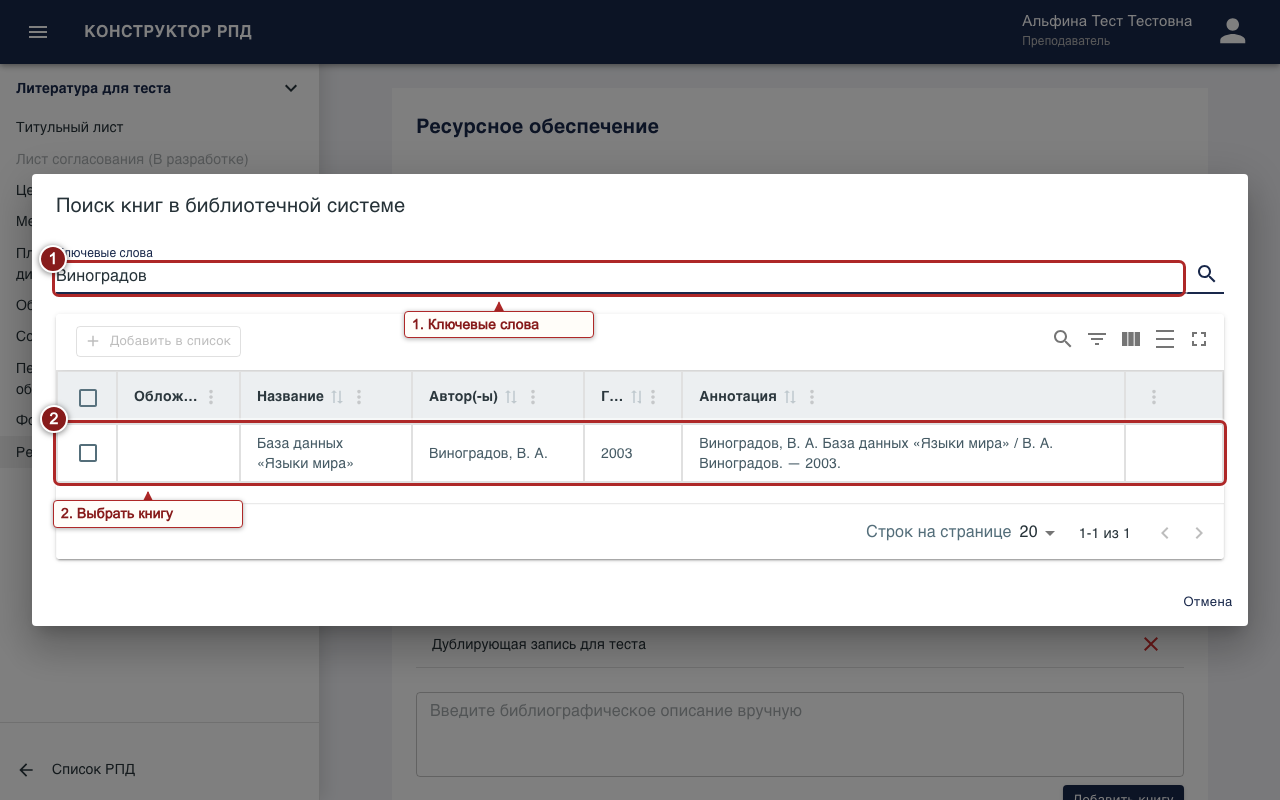
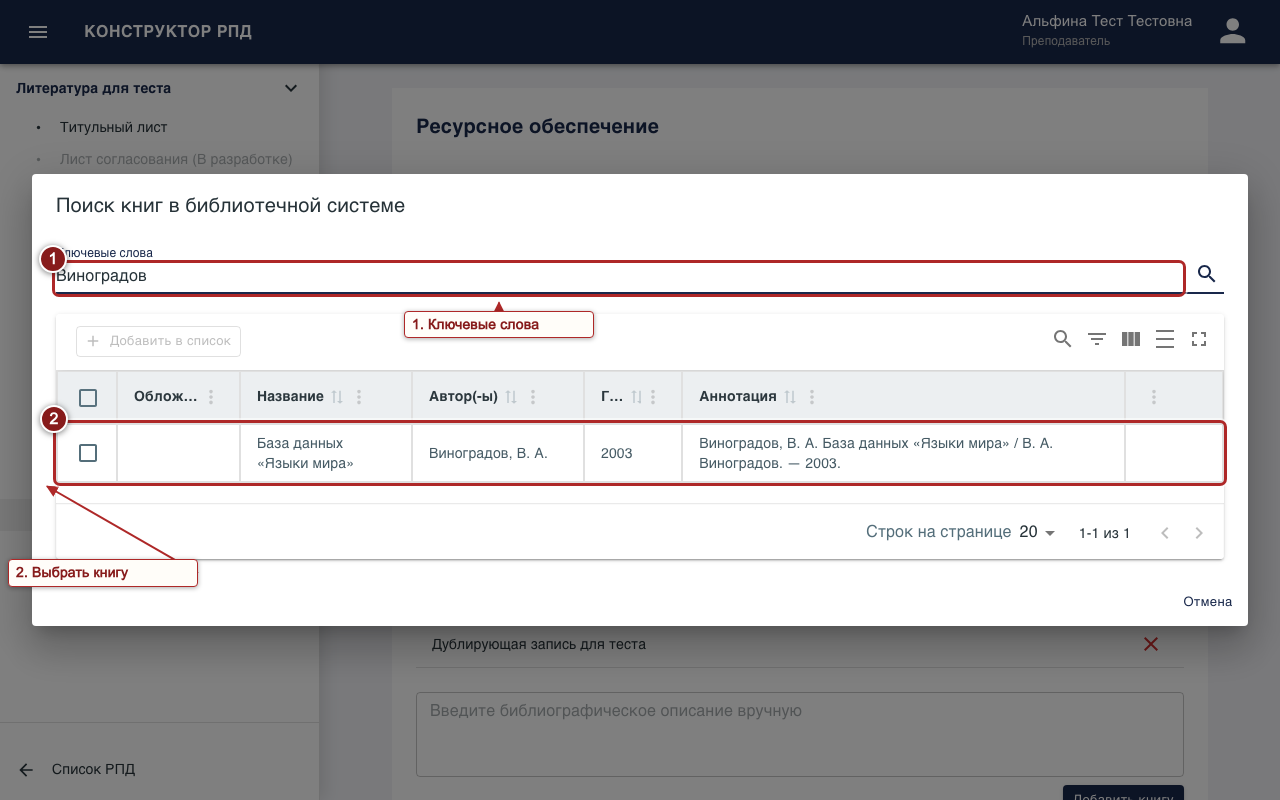
Документация: список преподавателя с меню «…», таблица изменений 1С, история шаблона
Проблема
Инструкция описывала колонку «Моя отметка», значок «Открыть» и основную кнопку в списке преподавателя, «список» изменений из 1С и прежний порядок пунктов меню «…»; кадр teacher-templates.png показывал старую таблицу.

Причина
Документация отставала от исправлений после проверки dev.

Что сделано
- index.html: список преподавателя (статус с датой и «Моя отметка», меню «…» с «Открыть» первым, «Готово» только после «Взять в работу»), порядок пунктов меню РОП, подчёркнутое «Назначить преподавателей», диалог 1С таблицей «поле, было, стало», вид истории.
- screenshots.spec.ts: кадр teacher-templates.png под новую таблицу (выноски «Статус и моя отметка», «Меню шаблона»), открытие шаблона преподавателем через меню; перед кадром поиска книг ждём строку результата, чтобы выноска не съезжала.
- Пересняты teacher-templates.png и books-search.png.

Как проверить
- e2e: bun run docs:screenshots; просмотреть rpd-client-ts/public/docs/media/teacher-templates.png и books-search.png.

Changed region(s): [[0.0, 0.5938, 0.1875, 0.75], [0.0312, 0.1562, 0.2188, 0.2188]]

diff --git a/rpd-client-ts/public/docs/index.html b/rpd-client-ts/public/docs/index.html
@@ -65,20 +65,20 @@
           <figcaption>Список комплектов: 1 — откройте комплект кнопкой «Комплект РПД».</figcaption></figure>
       </section>
       <section class="sub-chapter" id="rpd-in-complect"><h3>РПД и преподаватели</h3>
-        <p>В комплекте каждая строка соответствует дисциплине; колонки — «Дисциплина», «Семестр», «Преподаватели», «Статус» и «Действия». Все действия строки собраны в одном меню <strong>«Меню шаблона»</strong> (значок «…») в колонке «Действия». Для созданной РПД в нём есть <strong>«Открыть»</strong>, <strong>«История шаблона»</strong>, <strong>«Импортировать»</strong>, <strong>«Изменить преподавателей»</strong>, а также <strong>«Принять»</strong> и <strong>«Вернуть на доработку»</strong>, когда они доступны. Если РПД ещё не создана, в меню — <strong>«Создать»</strong> и <strong>«Назначить преподавателей»</strong>.</p>
-        <p>В колонке «Преподаватели» назначенные перечислены списком: полное ФИО и личная отметка — «Назначен», «В работе» или «Готово»; неактивные аккаунты помечены. Состав меняется в диалоге «Преподаватели: …». Откройте его кликом по ФИО или по строке <strong>«Назначить преподавателей»</strong> в ячейке либо пунктом <strong>«Изменить преподавателей»</strong> меню «…». В диалоге найдите преподавателя в поле поиска и отметьте флажок; пометка «из 1С» показывает, кто указан в 1С. Если преподаватель есть в 1С, но аккаунта нет, внизу диалога появится справка «В 1С, аккаунт не найден» — такой аккаунт должен создать администратор. Изменения применяются сразу, диалог закрывается кнопкой <strong>«Закрыть»</strong>. В статусе «Готов» состав менять нельзя: сначала верните РПД на доработку.</p>
-        <p>В колонке «Статус» показаны этап и дата с временем его начала; клик по ним открывает историю шаблона. Ниже, если последняя синхронизация с 1С что-то изменила, стоит <strong>«Обновлено из 1С»</strong> с датой: клик открывает диалог «Изменения из 1С» со списком этих изменений, кнопка <strong>«Закрыть»</strong> его закрывает.</p>
+        <p>В комплекте каждая строка соответствует дисциплине; колонки — «Дисциплина», «Семестр», «Преподаватели», «Статус» и «Действия». Все действия строки собраны в одном меню <strong>«Меню шаблона»</strong> (значок «…») в колонке «Действия». Для созданной РПД первым стоит <strong>«Открыть»</strong>, затем <strong>«Изменить преподавателей»</strong>, <strong>«Импортировать»</strong> и <strong>«История шаблона»</strong>, а также <strong>«Принять»</strong> и <strong>«Вернуть на доработку»</strong>, когда они доступны. Если РПД ещё не создана, в меню — <strong>«Создать»</strong> и <strong>«Назначить преподавателей»</strong>.</p>
+        <p>В колонке «Преподаватели» назначенные перечислены списком: полное ФИО и личная отметка — «Назначен», «В работе» или «Готово»; неактивные аккаунты помечены. Состав меняется в диалоге «Преподаватели: …». Откройте его кликом по ФИО или по подчёркнутой строке <strong>«Назначить преподавателей»</strong> в ячейке либо пунктом <strong>«Изменить преподавателей»</strong> меню «…». В диалоге найдите преподавателя в поле поиска и отметьте флажок; пометка «из 1С» показывает, кто указан в 1С. Если преподаватель есть в 1С, но аккаунта нет, внизу диалога появится справка «В 1С, аккаунт не найден» — такой аккаунт должен создать администратор. Изменения применяются сразу, диалог закрывается кнопкой <strong>«Закрыть»</strong>. В статусе «Готов» состав менять нельзя: сначала верните РПД на доработку.</p>
+        <p>В колонке «Статус» показаны этап и дата с временем его начала; клик по ним открывает историю шаблона. Ниже, если последняя синхронизация с 1С что-то изменила, стоит <strong>«Обновлено из 1С»</strong> с датой: клик открывает диалог «Изменения из 1С» с таблицей этих изменений: поле, было, стало; кнопка <strong>«Закрыть»</strong> его закрывает.</p>
         <figure class="figure"><img src="media/complect-table.png" alt="Страница комплекта с дисциплинами, преподавателями и статусами" width="1280" height="800" loading="lazy" />
           <figcaption>Страница комплекта: 1 — найдите дисциплину; 2 — проверьте статус и дату. Все действия строки — в меню «…» справа.</figcaption></figure>
         <figure class="figure"><img src="media/teacher-selection.png" alt="Диалог назначения преподавателей с поиском и флажками" width="1280" height="800" loading="lazy" />
           <figcaption>Назначение преподавателей: 1 — найдите аккаунт в поле поиска; 2 — отметьте его флажком.</figcaption></figure>
       </section>
       <section class="sub-chapter" id="workflow"><h3>Готовность и согласование</h3>
-        <p>Доступные действия зависят от активной роли. В списке шаблонов у преподавателя основная кнопка — <strong>«Взять в работу»</strong>, затем <strong>«Готово»</strong>; остальное, например <strong>«Снять отметку»</strong>, — в меню «…». В колонке статуса списка шаблонов виден прогресс («N/M готовы»); в комплекте РОП его нет. Когда все активные назначенные преподаватели отметились, статус становится «Готов».</p>
+        <p>Доступные действия зависят от активной роли. У преподавателя все действия собраны в <strong>«Меню шаблона»</strong> (значок «…») списка шаблонов: сначала <strong>«Взять в работу»</strong>, затем <strong>«Готово»</strong>, при необходимости — <strong>«Снять отметку»</strong>. Пока РПД не взята в работу, пункта «Готово» нет. Когда все активные назначенные преподаватели отметились, статус становится «Готов». Прогресс по участникам в списках не показывается: у преподавателя под статусом стоит только его собственная отметка.</p>
         <p>У РОП эти действия — в меню «…» строки комплекта. Пункт <strong>«Принять»</strong> позволяет принять РПД раньше, в статусах «Назначены преподаватели», «В работе» или «На доработке», если есть хотя бы один активный преподаватель. После этого статус также становится «Готов». В статусе «Готов» РОП выбирает <strong>«Вернуть на доработку»</strong> с обязательным комментарием; преподавателям снова потребуется отметить готовность.</p>
       </section>
       <section class="sub-chapter" id="import-history"><h3>Импорт и история</h3>
-        <p>В <strong>«Меню шаблона»</strong> выберите <strong>«Импортировать»</strong>, затем комплект и готовый шаблон для переноса содержательных полей. Перед подтверждением проверьте, какие данные будут заменены. Пункт <strong>«История шаблона»</strong> показывает события статусов и назначений; правки отдельных полей смотрите в редакторе.</p>
+        <p>В <strong>«Меню шаблона»</strong> выберите <strong>«Импортировать»</strong>, затем комплект и готовый шаблон для переноса содержательных полей. Перед подтверждением проверьте, какие данные будут заменены. Пункт <strong>«История шаблона»</strong> показывает события статусов и назначений: новые события идут сверху, у каждого указаны действие, статус, дата и автор, а у возврата на доработку — комментарий. Ту же историю открывает клик по статусу в списке; правки отдельных полей смотрите в редакторе.</p>
       </section>
       <section class="sub-chapter" id="documents"><h3>Документы и ФОС</h3>
         <p>Для отдельной РПД откройте редактор и выберите <strong>«Сформировать документ»</strong> в боковой панели. Там доступны просмотр и скачивание PDF, а также выгрузка Word.</p>
@@ -99,9 +99,9 @@
     <section class="chapter" aria-labelledby="teacher-heading">
       <h2 id="teacher-heading">Преподаватель</h2>
       <section class="sub-chapter" id="my-rpd"><h3>Свои РПД</h3>
-        <p>Откройте <strong>«Список шаблонов»</strong>. В таблице видны назначенные РПД, их общий статус и колонка «Моя отметка». В колонке «Действия» значок <strong>«Открыть»</strong> (подпись появляется при наведении) открывает редактор; рядом — основная кнопка («Взять в работу» или «Готово»), остальные действия — в меню «…».</p>
+        <p>Откройте <strong>«Список шаблонов»</strong>. В таблице видны назначенные РПД. В колонке «Статус» показан общий статус РПД с датой его начала, а ниже — строка «Моя отметка: Назначен», «В работе» или «Готово»; клик по статусу открывает историю шаблона. В колонке «Действия» находится <strong>«Меню шаблона»</strong> (значок «…»): первым стоит <strong>«Открыть»</strong>, который открывает редактор, затем <strong>«История шаблона»</strong> и доступные действия — <strong>«Взять в работу»</strong>, после него <strong>«Готово»</strong> и <strong>«Снять отметку»</strong>. В статусе «Готов» в меню остаются только «Открыть» и «История шаблона».</p>
         <figure class="figure"><img src="media/teacher-templates.png" alt="Список назначенных преподавателю РПД" width="1280" height="800" loading="lazy" />
-          <figcaption>Свои РПД: 1 — проверьте колонку «Моя отметка»; 2 — откройте РПД значком «Открыть».</figcaption></figure>
+          <figcaption>Свои РПД: 1 — проверьте статус и строку «Моя отметка»; 2 — откройте меню «…» и выберите «Открыть».</figcaption></figure>
       </section>
       <section class="sub-chapter" id="editor"><h3>Редактор и совместная работа</h3>
         <p>Выберите раздел в боковой панели. Тексты РПД (цели, место дисциплины, дополнительные тексты, ресурсное обеспечение) открываются кнопкой <strong>«Редактировать»</strong> и сохраняются кнопкой <strong>«Сохранить изменения»</strong>; <strong>«Отменить»</strong> закрывает редактор без сохранения. Ячейки таблиц, списки и выбор значений сохраняются при выходе из ячейки.</p>
@@ -120,7 +120,7 @@
           <figcaption>Литература: 1 — введите ключевые слова; 2 — выберите книгу из результатов.</figcaption></figure>
       </section>
       <section class="sub-chapter" id="questions"><h3>Вопросы ФОС и готовность</h3>
-        <p>В разделе оценочных средств добавляйте открытые и закрытые вопросы по компетенциям, указывайте ответы и отмечайте вопросы для включения в ФОС. Если выбрать вопросы пока нельзя, проверьте планируемые результаты комплекта. Закончив заполнение, вернитесь к списку РПД и нажмите <strong>«Готово»</strong>. При необходимости отметку можно снять кнопкой <strong>«Снять отметку»</strong>, если она доступна.</p>
+        <p>В разделе оценочных средств добавляйте открытые и закрытые вопросы по компетенциям, указывайте ответы и отмечайте вопросы для включения в ФОС. Если выбрать вопросы пока нельзя, проверьте планируемые результаты комплекта. Закончив заполнение, вернитесь к списку РПД, откройте <strong>«Меню шаблона»</strong> и выберите <strong>«Готово»</strong>; этот пункт появляется после «Взять в работу». При необходимости отметку можно снять пунктом <strong>«Снять отметку»</strong>, если он доступен.</p>
       </section>
     </section>
 

diff --git a/e2e/tests/docs/screenshots.spec.ts b/e2e/tests/docs/screenshots.spec.ts
@@ -2,7 +2,7 @@ import { mkdirSync, readFileSync } from 'node:fs';
 import { parseEnv } from 'node:util';
 import { fileURLToPath } from 'node:url';
 import { expect, test, type ElementHandle, type Locator, type Page } from '@playwright/test';
-import { complects, disciplines, openComplect, showAllRows, signIn } from '../helpers';
+import { complects, disciplines, openComplect, openTemplateFromTeacherList, showAllRows, signIn } from '../helpers';
 import { closeTeachersDialog, openTeachersDialog } from '../teacherAssignments';
 
 test.use({ viewport: { width: 1280, height: 800 } });
@@ -255,21 +255,21 @@ test('снимки инструкции на синтетических данн
     const teacherPage = await teacherContext.newPage();
     await signIn(teacherPage, 'teacher');
     const templateRow = teacherPage.getByRole('row').filter({ hasText: 'Совместное редактирование для теста' });
-    // Таблица шире окна: прокручиваем к колонке «Действия», чтобы в кадре были «Моя отметка» и значок «Открыть».
-    const openButton = templateRow.getByRole('button', { name: 'Открыть' });
-    await openButton.scrollIntoViewIfNeeded();
+    // Таблица шире окна: прокручиваем к колонке «Действия», чтобы в кадре были статус с отметкой и меню «…».
+    const menuButton = templateRow.getByRole('button', { name: 'Меню шаблона', exact: true });
+    await menuButton.scrollIntoViewIfNeeded();
+    await teacherPage.mouse.move(0, 0);
     await save(teacherPage, 'teacher-templates', [
-      { target: templateRow.getByRole('cell', { name: 'Назначен', exact: true }), label: 'Моя отметка' },
-      { target: openButton, label: 'Открыть РПД' },
+      { target: templateRow.getByRole('cell').nth(7).getByRole('button'), label: 'Статус и моя отметка' },
+      { target: menuButton, label: 'Меню шаблона' },
     ]);
-    await openButton.click();
+    await openTemplateFromTeacherList(teacherPage, templateRow);
     const aims = teacherPage.getByRole('button', { name: 'Цели и задачи освоения дисциплины' });
     await aims.click();
 
     const secondPage = await secondContext.newPage();
     await signIn(secondPage, 'teacher2');
-    await secondPage.getByRole('row').filter({ hasText: 'Совместное редактирование для теста' })
-      .getByRole('button', { name: 'Открыть' }).click();
+    await openTemplateFromTeacherList(secondPage, secondPage.getByRole('row').filter({ hasText: 'Совместное редактирование для теста' }));
     await secondPage.getByRole('button', { name: 'Цели и задачи освоения дисциплины' }).click();
     // Сохранение, последняя правка и присутствие — в блоке внизу панели разделов.
     const status = teacherPage.getByRole('status', { name: 'Сохранение и присутствие' });
@@ -290,8 +290,7 @@ test('снимки инструкции на синтетических данн
     ]);
 
     await secondPage.getByRole('button', { name: 'Список РПД' }).click();
-    await secondPage.getByRole('row').filter({ hasText: 'Часы для теста' })
-      .getByRole('button', { name: 'Открыть' }).click();
+    await openTemplateFromTeacherList(secondPage, secondPage.getByRole('row').filter({ hasText: 'Часы для теста' }));
     await secondPage.getByRole('button', { name: 'Содержание дисциплины' }).click();
     const contentTable = secondPage.getByRole('table', { name: 'Содержание дисциплины' });
     await secondPage.evaluate(() => window.scrollTo(0, 0));
@@ -314,8 +313,7 @@ test('снимки инструкции на синтетических данн
       });
     });
     await teacherPage.getByRole('button', { name: 'Список РПД' }).click();
-    await teacherPage.getByRole('row').filter({ hasText: 'Литература для теста' })
-      .getByRole('button', { name: 'Открыть' }).click();
+    await openTemplateFromTeacherList(teacherPage, teacherPage.getByRole('row').filter({ hasText: 'Литература для теста' }));
     await teacherPage.getByRole('button', { name: 'Ресурсное обеспечение' }).click();
     await teacherPage.getByRole('button', { name: 'Найти книги в библиотечной системе' }).first().click();
     const booksDialog = teacherPage.getByRole('dialog', { name: 'Поиск книг в библиотечной системе' });
@@ -323,6 +321,8 @@ test('снимки инструкции на синтетических данн
     await query.fill('Виноградов');
     await query.press('Enter');
     const bookRow = booksDialog.getByRole('row').filter({ hasText: 'База данных «Языки мира»' });
+    // Диалог расширяется, когда приходит таблица результатов: поле ввода измеряем уже после этого.
+    await expect(bookRow).toBeVisible();
     await save(teacherPage, 'books-search', [
       { target: query, label: 'Ключевые слова' },
       { target: bookRow, label: 'Выбрать книгу' },
